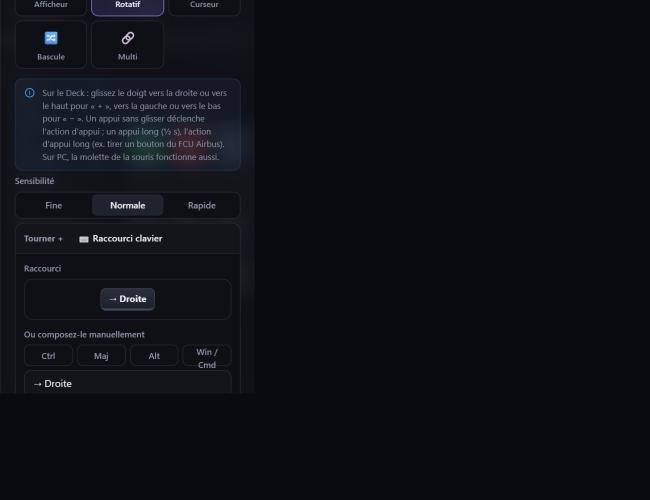
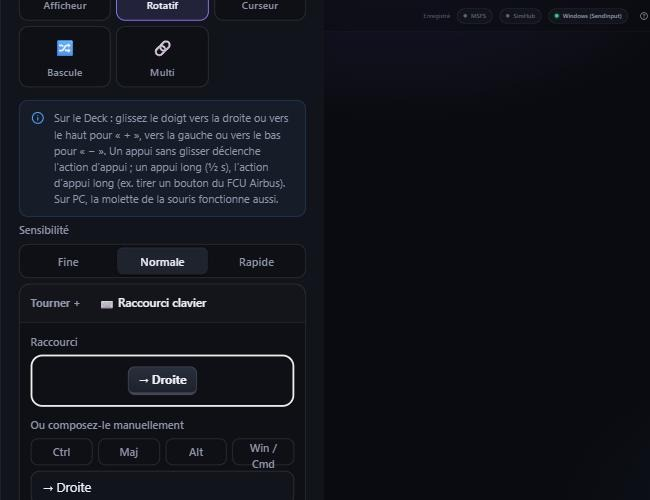
Captures d'action vraiment nettes : backdrop-filter en cause (v0.12.4)
Le flou précédent venait du backdrop-filter: blur(10px) du panneau : en le
déplaçant par-dessus la grille de touches colorée pour l'agrandir, il
floutait les touches sous lui (les taches colorées visibles). Corrigé en
désactivant le backdrop-filter et en donnant un fond opaque uni le temps de
la capture. Remplace aussi la capture « Commande MSFS » par un exemple
rempli (« Train d'atterrissage ») plutôt que le menu déroulant, plus fiable
à capturer qu'un <select> natif ouvert.

diff --git a/public/docs.html b/public/docs.html
@@ -279,7 +279,7 @@
 <p>Comment choisir ? Essayez dans cet ordre : <b>Commande</b> (l'événement standard existe-t-il ?) → <b>Input Event</b> (l'avion l'expose-t-il ?) → <b>Variable</b> (l'avion lit-il une variable <code>L:</code> ?) → <b>Code</b> (l'interrupteur passe par un événement <code>H:</code>).</p>
 
 <h3 id="msfs-commande">Mode Commande (événements SimConnect)</h3>
-<figure class="shot-fig"><img class="shot" src="/public/docs-img/action-msfs-commande.jpg" alt="Inspecteur : action Commande MSFS, menu déroulant des commandes classées par catégorie (Train & freins, Volets & compensation, Feux…)"><figcaption>Le menu déroulant classé par catégorie, avec une recherche.</figcaption></figure>
+<figure class="shot-fig"><img class="shot" src="/public/docs-img/action-msfs-commande.jpg" alt="Inspecteur : action Commande MSFS, exemple avec la commande « Train d'atterrissage (basculer) » choisie"><figcaption>Exemple : la commande « Train d'atterrissage (basculer) » choisie dans le menu classé par catégorie.</figcaption></figure>
 <p>Le menu propose une cinquantaine de commandes standard (train, volets, aérofreins, compensateur, feux, pilote automatique, radios, pause…) classées par groupes, plus les commandes d'un A320 FlyByWire. Pour tout autre événement, choisissez <i>Avancé → Autre événement (saisie libre)</i> et tapez son nom (la casse est normalisée en majuscules). La liste complète des événements standard est dans la documentation du SDK MSFS (« Event IDs »). <b>Valeur</b> sert aux événements qui attendent un paramètre : <code>HEADING_BUG_SET</code> avec 270 fixe le cap sélecté à 270°.</p>
 
 <h3 id="msfs-variable">Mode Variable</h3>

diff --git a/README.md b/README.md
@@ -266,7 +266,7 @@ L'onglet *Aviation* du choix d'icône propose 36 icônes dédiées, par groupes.
 
 #### Trois façons d'agir sur le simulateur
 
-<img src="docs/screenshots/action-msfs-commande.jpg" alt="Inspecteur : action Commande MSFS, menu déroulant des commandes classées par catégorie (Train & freins, Volets & compensation, Feux…)" width="420" align="right">
+<img src="docs/screenshots/action-msfs-commande.jpg" alt="Inspecteur : action Commande MSFS, exemple avec la commande « Train d'atterrissage (basculer) » choisie" width="420" align="right">
 
 L'action « Commande MSFS » propose trois modes, en onglets sous le type
 d'action (*Commande*, *Variable*, *Input Event*, *Code*). Le mode *Commande*
